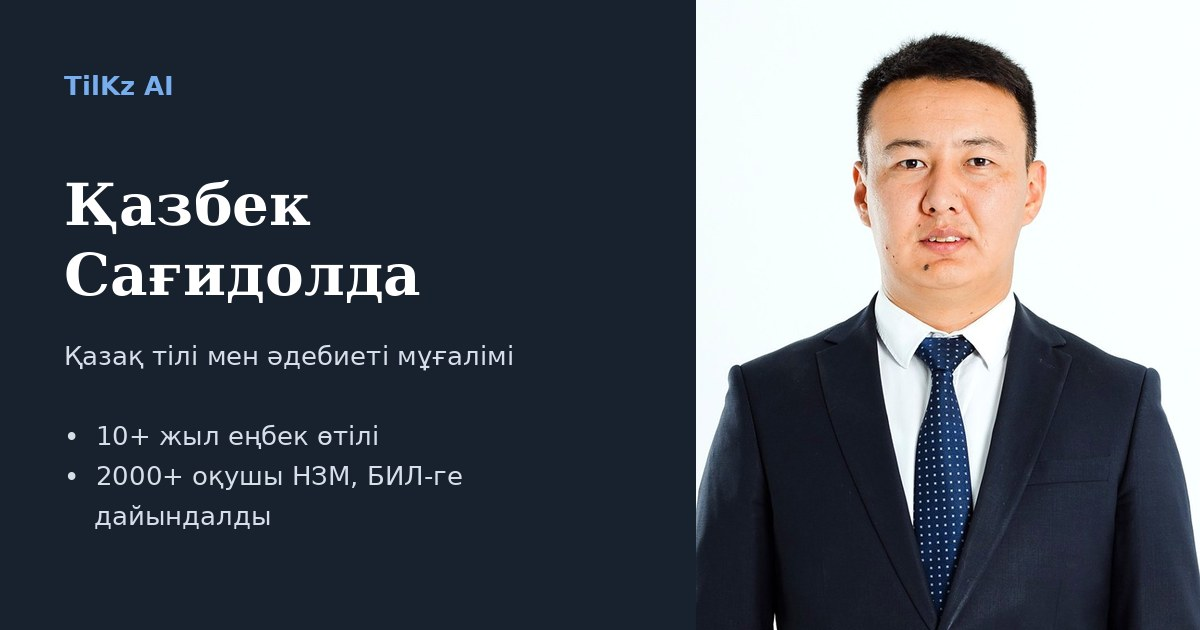
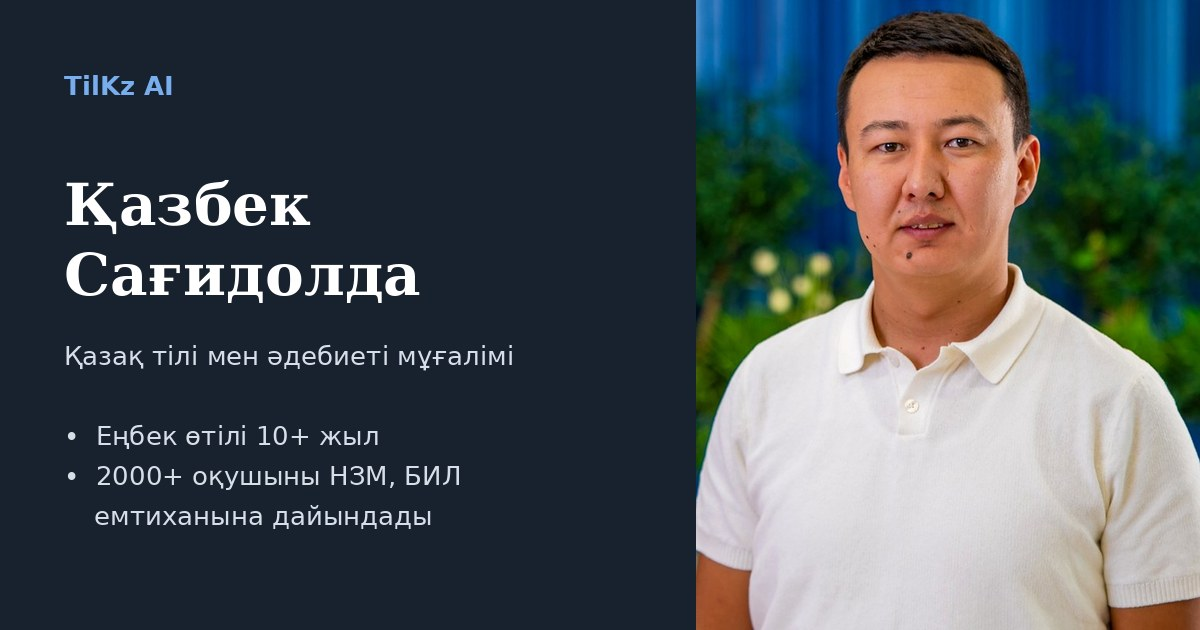
Визитка: жаңа фотосурет, «Еңбек өтілі 10+ жыл», «Еңбек жолы»
- Фотосурет ауыстырылды (иықтан жоғары кесілді, фондағы логотип
  кадрдан шығарылды)
- «Еңбек өтілі 10+ жыл», «2000+ оқушыны НЗМ, БИЛ емтиханына дайындады»
- «Тәжірибесі» → «Еңбек жолы»
- «Бағасы мен кестесі туралы WhatsApp-қа жазыңыз» (сілтемемен)
- Сілтеме алдын ала көрінісі жаңартылды

Claude-Session: https://claude.ai/code/session_01APEKYqKhzMC7zwh18Z5HYk

diff --git a/index.html b/index.html
@@ -4,10 +4,10 @@
 <meta charset="utf-8">
 <meta name="viewport" content="width=device-width,initial-scale=1,viewport-fit=cover">
 <title>Қазбек Сағидолда – қазақ тілі мұғалімі</title>
-<meta name="description" content="Қазақ тілі мен әдебиеті мұғалімі. 10+ жыл еңбек өтілі, 2000+ оқушыны НЗМ, БИЛ емтихандарына дайындады. Жеке және корпоративтік сабақтар.">
+<meta name="description" content="Қазақ тілі мен әдебиеті мұғалімі. Еңбек өтілі 10+ жыл, 2000+ оқушыны НЗМ, БИЛ емтиханына дайындады. Жеке және корпоративтік сабақтар.">
 <meta property="og:type" content="profile">
 <meta property="og:title" content="Қазбек Сағидолда – қазақ тілі мұғалімі">
-<meta property="og:description" content="10+ жыл еңбек өтілі · 2000+ оқушы НЗМ, БИЛ-ге дайындалды · Жеке және корпоративтік сабақтар">
+<meta property="og:description" content="Еңбек өтілі 10+ жыл · 2000+ оқушыны НЗМ, БИЛ емтиханына дайындады · Жеке және корпоративтік сабақтар">
 <meta property="og:image" content="https://sagidoldaq-a11y.github.io/tilkz/img/og.jpg">
 <meta property="og:image:width" content="1200">
 <meta property="og:image:height" content="630">
@@ -69,6 +69,8 @@ button{font:inherit;color:inherit;cursor:pointer}
 .stat{background:var(--panel);border:1px solid var(--line);border-radius:var(--r);padding:16px}
 .stat b{display:block;font-family:var(--f-text);font-size:30px;line-height:1.1;color:var(--accent);font-variant-numeric:tabular-nums}
 .stat span{font-size:14px;color:var(--muted)}
+.stat{display:flex;flex-direction:column;justify-content:flex-start}
+.stat .lbl{order:-1;font-size:14px;color:var(--muted);margin-bottom:2px}
 
 section{margin-top:44px}
 h2{font-family:var(--f-text);font-size:26px;margin:0 0 16px}
@@ -96,7 +98,8 @@ h2{font-family:var(--f-text);font-size:26px;margin:0 0 16px}
 .sub span{font-size:14px;color:var(--muted)}
 .course .go{margin-top:auto;display:inline-flex;justify-content:center;align-items:center;gap:6px;padding:11px 14px;border-radius:10px;font-weight:700;text-decoration:none;border:1px solid var(--accent);color:var(--accent)}
 .course .go.primary{background:var(--accent);color:#fff}
-.note{margin-top:12px;color:var(--muted);font-size:14px}
+.note{margin-top:12px;color:var(--muted);font-size:15px}
+.note a{color:var(--wa);font-weight:700}
 
 /* Байланыс */
 .clist{display:grid;grid-template-columns:repeat(2,minmax(0,1fr));gap:12px}
@@ -142,7 +145,7 @@ footer{margin:48px 0 28px;color:var(--muted);font-size:13px;text-align:center}
     </article>
 
     <div class="stats">
-      <div class="stat"><b>10+</b><span data-t="s1"></span></div>
+      <div class="stat"><span class="lbl" data-t="s1"></span><b data-t="s1b"></b></div>
       <div class="stat"><b>2000+</b><span data-t="s2"></span></div>
       <div class="stat"><b data-t="s3b"></b><span data-t="s3"></span></div>
       <div class="stat"><b>2</b><span data-t="s4"></span></div>
@@ -184,7 +187,7 @@ footer{margin:48px 0 28px;color:var(--muted);font-size:13px;text-align:center}
           <a class="go" id="go3" target="_blank" rel="noopener" data-t="c3go"></a>
         </div>
       </div>
-      <p class="note" data-t="price"></p>
+      <p class="note" id="price"></p>
     </section>
 
     <section id="contact">
@@ -206,24 +209,24 @@ const ICON={
 const T={
  kk:{role:"Қазақ тілі мен әдебиеті мұғалімі", name:"Қазбек Сағидолда",
    lead:"10 жылдан астам уақыт қазақ тілін оқытып келемін. 2000-нан астам оқушыны НЗМ мен БИЛ емтихандарына дайындадым. Оқушыларға, ересектерге және компанияларға сабақ беремін.",
-   s1:"жыл еңбек өтілі", s2:"оқушы НЗМ, БИЛ емтихандарына дайындалды", s3b:"НЗМ · БИЛ", s3:"форматындағы тест жинақтарының авторы", s4:"авторлық курс",
-   bgTitle:"Білімі мен тәжірибесі", eduTitle:"Білімі", edu:"Абай атындағы Қазақ ұлттық педагогикалық университеті, қазақ тілі мен әдебиеті мұғалімі (2015)",
-   expTitle:"Тәжірибесі", exp:"Еңбек өтілі 10 жылдан асады. Жұмыс істеген оқу орындары:",
-   worksTitle:"Жетістіктері мен авторлық жұмыстары", w1:"2000+ оқушыны НЗМ, БИЛ емтихандарына дайындады", w2:"Қазақ тілінен тест жинақтарының авторы", w3:"«Іскерлік қазақ тілі» және «Қазақ тілі – құжат тілі» курстарының авторы",
+   s1:"Еңбек өтілі", s1b:"10+ жыл", s2:"оқушыны НЗМ, БИЛ емтиханына дайындады", s3b:"НЗМ · БИЛ", s3:"форматындағы тест жинақтарының авторы", s4:"авторлық курс",
+   bgTitle:"Білімі мен еңбек жолы", eduTitle:"Білімі", edu:"Абай атындағы Қазақ ұлттық педагогикалық университеті, қазақ тілі мен әдебиеті мұғалімі (2015)",
+   expTitle:"Еңбек жолы", exp:"Еңбек өтілі 10+ жыл.",
+   worksTitle:"Жетістіктері мен авторлық жұмыстары", w1:"2000+ оқушыны НЗМ, БИЛ емтиханына дайындады", w2:"Қазақ тілінен тест жинақтарының авторы", w3:"«Іскерлік қазақ тілі» және «Қазақ тілі – құжат тілі» курстарының авторы",
    coursesTitle:"Курстар", c1tag:"Онлайн жаттықтырғыш", c1:"НЗМ мен БИЛ емтихандарындағы оқу сауаттылығы тапсырмаларына дайындық.",
    c1a:"Емтихан форматындағы мәтіндер мен тест тапсырмалары", c1b:"Әр жауапқа түсініктеме және мәтіннен дәлел", c1c:"Дағдылар бойынша есеп: мықты және әлсіз жақтар", c1go:"Тестті бастау →",
    c2tag:"Онлайн / офлайн", c2h:"Жеке сабақтар", c2kidsH:"Оқушыларға", c2kids:"5–11 сыныптар. Емтихандарға дайындық, үлгерімді жақсарту. Тек онлайн.",
    c2adultsH:"Ересектерге", c2adults:"Кәсіпкерлер, басшылар, мемлекеттік қызметкерлер. Жалпы және іскерлік қазақ тілі. Онлайн және офлайн.", c2go:"Сабаққа жазылу",
    c3tag:"Компанияларға", c3h:"Корпоративтік қазақ тілі", c3:"Компания қызметкерлеріне арналған қазақ тілі. Онлайн және офлайн.",
    c3a:"Іскери хат алмасу", c3b:"Құжат жүргізу", c3c:"Іскерлік қазақ тілі: топтық сабақтар және топ-менеджерлермен жеке жұмыс", c3go:"Ұсыныс алу",
-   price:"Бағасы мен кестесі туралы хабарласыңыз.", contactTitle:"Байланыс", copy:"Көшіру", copied:"Көшірілді",
-   waKids:"Сәлеметсіз бе! Жеке сабаққа жазылғым келеді.", waCorp:"Сәлеметсіз бе! Корпоративтік қазақ тілі курсы бойынша ұсыныс алғым келеді.",
+   price:"Бағасы мен кестесі туралы {wa} жазыңыз.", priceWa:"WhatsApp-қа", contactTitle:"Байланыс", copy:"Көшіру", copied:"Көшірілді",
+   waKids:"Сәлеметсіз бе! Жеке сабаққа жазылғым келеді.", waPrice:"Сәлеметсіз бе! Сабақтардың бағасы мен кестесін білгім келеді.", waCorp:"Сәлеметсіз бе! Корпоративтік қазақ тілі курсы бойынша ұсыныс алғым келеді.",
    lbl:{wa:"WhatsApp",tg:"Telegram",ig:"Instagram",mail:"Электрондық пошта"}, write:"Жазу"},
  ru:{role:"Учитель казахского языка и литературы", name:"Казбек Сагидолда",
    lead:"Более 10 лет преподаю казахский язык. Подготовил более 2000 учеников к экзаменам в НИШ и БИЛ. Занимаюсь со школьниками, взрослыми и компаниями.",
-   s1:"лет педагогического стажа", s2:"учеников подготовлено к экзаменам НИШ и БИЛ", s3b:"НИШ · БИЛ", s3:"автор сборников тестов в формате экзаменов", s4:"авторских курса",
-   bgTitle:"Образование и опыт", eduTitle:"Образование", edu:"Казахский национальный педагогический университет имени Абая, учитель казахского языка и литературы (2015)",
-   expTitle:"Опыт", exp:"Педагогический стаж — более 10 лет. Работал в учебных заведениях:",
+   s1:"Педагогический стаж", s1b:"10+ лет", s2:"учеников подготовил к экзаменам НИШ и БИЛ", s3b:"НИШ · БИЛ", s3:"автор сборников тестов в формате экзаменов", s4:"авторских курса",
+   bgTitle:"Образование и трудовой путь", eduTitle:"Образование", edu:"Казахский национальный педагогический университет имени Абая, учитель казахского языка и литературы (2015)",
+   expTitle:"Трудовой путь", exp:"Педагогический стаж — 10+ лет.",
    worksTitle:"Достижения и авторские работы", w1:"Подготовил 2000+ учеников к экзаменам в НИШ и БИЛ", w2:"Автор сборников тестов по казахскому языку", w3:"Автор курсов «Деловой казахский язык» и «Казахский язык — язык документации»",
    coursesTitle:"Курсы", c1tag:"Онлайн-тренажёр", c1:"Подготовка к заданиям на читательскую грамотность на экзаменах в НИШ и БИЛ.",
    c1a:"Тексты и тестовые задания в формате экзамена", c1b:"Объяснение к каждому ответу и доказательство из текста", c1c:"Отчёт по навыкам: сильные и слабые стороны", c1go:"Начать тест →",
@@ -231,8 +234,8 @@ const T={
    c2adultsH:"Взрослым", c2adults:"Предприниматели, руководители, госслужащие. Общий и деловой казахский язык. Онлайн и офлайн.", c2go:"Записаться на занятие",
    c3tag:"Для компаний", c3h:"Корпоративный казахский язык", c3:"Казахский язык для сотрудников компаний. Онлайн и офлайн.",
    c3a:"Деловая переписка", c3b:"Делопроизводство", c3c:"Деловой казахский: групповые занятия и индивидуальная работа с топ-менеджерами", c3go:"Получить предложение",
-   price:"О стоимости и расписании — свяжитесь со мной.", contactTitle:"Контакты", copy:"Копировать", copied:"Скопировано",
-   waKids:"Здравствуйте! Хочу записаться на индивидуальное занятие.", waCorp:"Здравствуйте! Хочу получить предложение по курсу корпоративного казахского языка.",
+   price:"О стоимости и расписании напишите в {wa}.", priceWa:"WhatsApp", contactTitle:"Контакты", copy:"Копировать", copied:"Скопировано",
+   waKids:"Здравствуйте! Хочу записаться на индивидуальное занятие.", waPrice:"Здравствуйте! Хочу узнать стоимость и расписание занятий.", waCorp:"Здравствуйте! Хочу получить предложение по курсу корпоративного казахского языка.",
    lbl:{wa:"WhatsApp",tg:"Telegram",ig:"Instagram",mail:"Электронная почта"}, write:"Написать"}
 };
 let lang="kk"; try{ lang=localStorage.getItem("tilkz-home-lang")||"kk"; }catch(e){}
@@ -242,6 +245,7 @@ function render(){
   const L=T[lang]; document.documentElement.lang=lang;
   document.querySelectorAll("[data-t]").forEach(el=>{ el.textContent=L[el.dataset.t]; });
   document.querySelectorAll(".seg button").forEach(b=>b.setAttribute("aria-pressed",b.dataset.lang===lang));
+  document.getElementById("price").innerHTML=esc(L.price).replace("{wa}",`<a href="${waLink(L.waPrice)}" target="_blank" rel="noopener">${esc(L.priceWa)}</a>`);
   document.getElementById("go2").href=waLink(L.waKids);
   document.getElementById("go3").href=waLink(L.waCorp);
   document.getElementById("contacts").innerHTML=

diff --git a/web/home.html b/web/home.html
@@ -4,10 +4,10 @@
 <meta charset="utf-8">
 <meta name="viewport" content="width=device-width,initial-scale=1,viewport-fit=cover">
 <title>Қазбек Сағидолда – қазақ тілі мұғалімі</title>
-<meta name="description" content="Қазақ тілі мен әдебиеті мұғалімі. 10+ жыл еңбек өтілі, 2000+ оқушыны НЗМ, БИЛ емтихандарына дайындады. Жеке және корпоративтік сабақтар.">
+<meta name="description" content="Қазақ тілі мен әдебиеті мұғалімі. Еңбек өтілі 10+ жыл, 2000+ оқушыны НЗМ, БИЛ емтиханына дайындады. Жеке және корпоративтік сабақтар.">
 <meta property="og:type" content="profile">
 <meta property="og:title" content="Қазбек Сағидолда – қазақ тілі мұғалімі">
-<meta property="og:description" content="10+ жыл еңбек өтілі · 2000+ оқушы НЗМ, БИЛ-ге дайындалды · Жеке және корпоративтік сабақтар">
+<meta property="og:description" content="Еңбек өтілі 10+ жыл · 2000+ оқушыны НЗМ, БИЛ емтиханына дайындады · Жеке және корпоративтік сабақтар">
 <meta property="og:image" content="https://sagidoldaq-a11y.github.io/tilkz/img/og.jpg">
 <meta property="og:image:width" content="1200">
 <meta property="og:image:height" content="630">
@@ -69,6 +69,8 @@ button{font:inherit;color:inherit;cursor:pointer}
 .stat{background:var(--panel);border:1px solid var(--line);border-radius:var(--r);padding:16px}
 .stat b{display:block;font-family:var(--f-text);font-size:30px;line-height:1.1;color:var(--accent);font-variant-numeric:tabular-nums}
 .stat span{font-size:14px;color:var(--muted)}
+.stat{display:flex;flex-direction:column;justify-content:flex-start}
+.stat .lbl{order:-1;font-size:14px;color:var(--muted);margin-bottom:2px}
 
 section{margin-top:44px}
 h2{font-family:var(--f-text);font-size:26px;margin:0 0 16px}
@@ -96,7 +98,8 @@ h2{font-family:var(--f-text);font-size:26px;margin:0 0 16px}
 .sub span{font-size:14px;color:var(--muted)}
 .course .go{margin-top:auto;display:inline-flex;justify-content:center;align-items:center;gap:6px;padding:11px 14px;border-radius:10px;font-weight:700;text-decoration:none;border:1px solid var(--accent);color:var(--accent)}
 .course .go.primary{background:var(--accent);color:#fff}
-.note{margin-top:12px;color:var(--muted);font-size:14px}
+.note{margin-top:12px;color:var(--muted);font-size:15px}
+.note a{color:var(--wa);font-weight:700}
 
 /* Байланыс */
 .clist{display:grid;grid-template-columns:repeat(2,minmax(0,1fr));gap:12px}
@@ -142,7 +145,7 @@ footer{margin:48px 0 28px;color:var(--muted);font-size:13px;text-align:center}
     </article>
 
     <div class="stats">
-      <div class="stat"><b>10+</b><span data-t="s1"></span></div>
+      <div class="stat"><span class="lbl" data-t="s1"></span><b data-t="s1b"></b></div>
       <div class="stat"><b>2000+</b><span data-t="s2"></span></div>
       <div class="stat"><b data-t="s3b"></b><span data-t="s3"></span></div>
       <div class="stat"><b>2</b><span data-t="s4"></span></div>
@@ -184,7 +187,7 @@ footer{margin:48px 0 28px;color:var(--muted);font-size:13px;text-align:center}
           <a class="go" id="go3" target="_blank" rel="noopener" data-t="c3go"></a>
         </div>
       </div>
-      <p class="note" data-t="price"></p>
+      <p class="note" id="price"></p>
     </section>
 
     <section id="contact">
@@ -206,24 +209,24 @@ const ICON={
 const T={
  kk:{role:"Қазақ тілі мен әдебиеті мұғалімі", name:"Қазбек Сағидолда",
    lead:"10 жылдан астам уақыт қазақ тілін оқытып келемін. 2000-нан астам оқушыны НЗМ мен БИЛ емтихандарына дайындадым. Оқушыларға, ересектерге және компанияларға сабақ беремін.",
-   s1:"жыл еңбек өтілі", s2:"оқушы НЗМ, БИЛ емтихандарына дайындалды", s3b:"НЗМ · БИЛ", s3:"форматындағы тест жинақтарының авторы", s4:"авторлық курс",
-   bgTitle:"Білімі мен тәжірибесі", eduTitle:"Білімі", edu:"Абай атындағы Қазақ ұлттық педагогикалық университеті, қазақ тілі мен әдебиеті мұғалімі (2015)",
-   expTitle:"Тәжірибесі", exp:"Еңбек өтілі 10 жылдан асады. Жұмыс істеген оқу орындары:",
-   worksTitle:"Жетістіктері мен авторлық жұмыстары", w1:"2000+ оқушыны НЗМ, БИЛ емтихандарына дайындады", w2:"Қазақ тілінен тест жинақтарының авторы", w3:"«Іскерлік қазақ тілі» және «Қазақ тілі – құжат тілі» курстарының авторы",
+   s1:"Еңбек өтілі", s1b:"10+ жыл", s2:"оқушыны НЗМ, БИЛ емтиханына дайындады", s3b:"НЗМ · БИЛ", s3:"форматындағы тест жинақтарының авторы", s4:"авторлық курс",
+   bgTitle:"Білімі мен еңбек жолы", eduTitle:"Білімі", edu:"Абай атындағы Қазақ ұлттық педагогикалық университеті, қазақ тілі мен әдебиеті мұғалімі (2015)",
+   expTitle:"Еңбек жолы", exp:"Еңбек өтілі 10+ жыл.",
+   worksTitle:"Жетістіктері мен авторлық жұмыстары", w1:"2000+ оқушыны НЗМ, БИЛ емтиханына дайындады", w2:"Қазақ тілінен тест жинақтарының авторы", w3:"«Іскерлік қазақ тілі» және «Қазақ тілі – құжат тілі» курстарының авторы",
    coursesTitle:"Курстар", c1tag:"Онлайн жаттықтырғыш", c1:"НЗМ мен БИЛ емтихандарындағы оқу сауаттылығы тапсырмаларына дайындық.",
    c1a:"Емтихан форматындағы мәтіндер мен тест тапсырмалары", c1b:"Әр жауапқа түсініктеме және мәтіннен дәлел", c1c:"Дағдылар бойынша есеп: мықты және әлсіз жақтар", c1go:"Тестті бастау →",
    c2tag:"Онлайн / офлайн", c2h:"Жеке сабақтар", c2kidsH:"Оқушыларға", c2kids:"5–11 сыныптар. Емтихандарға дайындық, үлгерімді жақсарту. Тек онлайн.",
    c2adultsH:"Ересектерге", c2adults:"Кәсіпкерлер, басшылар, мемлекеттік қызметкерлер. Жалпы және іскерлік қазақ тілі. Онлайн және офлайн.", c2go:"Сабаққа жазылу",
    c3tag:"Компанияларға", c3h:"Корпоративтік қазақ тілі", c3:"Компания қызметкерлеріне арналған қазақ тілі. Онлайн және офлайн.",
    c3a:"Іскери хат алмасу", c3b:"Құжат жүргізу", c3c:"Іскерлік қазақ тілі: топтық сабақтар және топ-менеджерлермен жеке жұмыс", c3go:"Ұсыныс алу",
-   price:"Бағасы мен кестесі туралы хабарласыңыз.", contactTitle:"Байланыс", copy:"Көшіру", copied:"Көшірілді",
-   waKids:"Сәлеметсіз бе! Жеке сабаққа жазылғым келеді.", waCorp:"Сәлеметсіз бе! Корпоративтік қазақ тілі курсы бойынша ұсыныс алғым келеді.",
+   price:"Бағасы мен кестесі туралы {wa} жазыңыз.", priceWa:"WhatsApp-қа", contactTitle:"Байланыс", copy:"Көшіру", copied:"Көшірілді",
+   waKids:"Сәлеметсіз бе! Жеке сабаққа жазылғым келеді.", waPrice:"Сәлеметсіз бе! Сабақтардың бағасы мен кестесін білгім келеді.", waCorp:"Сәлеметсіз бе! Корпоративтік қазақ тілі курсы бойынша ұсыныс алғым келеді.",
    lbl:{wa:"WhatsApp",tg:"Telegram",ig:"Instagram",mail:"Электрондық пошта"}, write:"Жазу"},
  ru:{role:"Учитель казахского языка и литературы", name:"Казбек Сагидолда",
    lead:"Более 10 лет преподаю казахский язык. Подготовил более 2000 учеников к экзаменам в НИШ и БИЛ. Занимаюсь со школьниками, взрослыми и компаниями.",
-   s1:"лет педагогического стажа", s2:"учеников подготовлено к экзаменам НИШ и БИЛ", s3b:"НИШ · БИЛ", s3:"автор сборников тестов в формате экзаменов", s4:"авторских курса",
-   bgTitle:"Образование и опыт", eduTitle:"Образование", edu:"Казахский национальный педагогический университет имени Абая, учитель казахского языка и литературы (2015)",
-   expTitle:"Опыт", exp:"Педагогический стаж — более 10 лет. Работал в учебных заведениях:",
+   s1:"Педагогический стаж", s1b:"10+ лет", s2:"учеников подготовил к экзаменам НИШ и БИЛ", s3b:"НИШ · БИЛ", s3:"автор сборников тестов в формате экзаменов", s4:"авторских курса",
+   bgTitle:"Образование и трудовой путь", eduTitle:"Образование", edu:"Казахский национальный педагогический университет имени Абая, учитель казахского языка и литературы (2015)",
+   expTitle:"Трудовой путь", exp:"Педагогический стаж — 10+ лет.",
    worksTitle:"Достижения и авторские работы", w1:"Подготовил 2000+ учеников к экзаменам в НИШ и БИЛ", w2:"Автор сборников тестов по казахскому языку", w3:"Автор курсов «Деловой казахский язык» и «Казахский язык — язык документации»",
    coursesTitle:"Курсы", c1tag:"Онлайн-тренажёр", c1:"Подготовка к заданиям на читательскую грамотность на экзаменах в НИШ и БИЛ.",
    c1a:"Тексты и тестовые задания в формате экзамена", c1b:"Объяснение к каждому ответу и доказательство из текста", c1c:"Отчёт по навыкам: сильные и слабые стороны", c1go:"Начать тест →",
@@ -231,8 +234,8 @@ const T={
    c2adultsH:"Взрослым", c2adults:"Предприниматели, руководители, госслужащие. Общий и деловой казахский язык. Онлайн и офлайн.", c2go:"Записаться на занятие",
    c3tag:"Для компаний", c3h:"Корпоративный казахский язык", c3:"Казахский язык для сотрудников компаний. Онлайн и офлайн.",
    c3a:"Деловая переписка", c3b:"Делопроизводство", c3c:"Деловой казахский: групповые занятия и индивидуальная работа с топ-менеджерами", c3go:"Получить предложение",
-   price:"О стоимости и расписании — свяжитесь со мной.", contactTitle:"Контакты", copy:"Копировать", copied:"Скопировано",
-   waKids:"Здравствуйте! Хочу записаться на индивидуальное занятие.", waCorp:"Здравствуйте! Хочу получить предложение по курсу корпоративного казахского языка.",
+   price:"О стоимости и расписании напишите в {wa}.", priceWa:"WhatsApp", contactTitle:"Контакты", copy:"Копировать", copied:"Скопировано",
+   waKids:"Здравствуйте! Хочу записаться на индивидуальное занятие.", waPrice:"Здравствуйте! Хочу узнать стоимость и расписание занятий.", waCorp:"Здравствуйте! Хочу получить предложение по курсу корпоративного казахского языка.",
    lbl:{wa:"WhatsApp",tg:"Telegram",ig:"Instagram",mail:"Электронная почта"}, write:"Написать"}
 };
 let lang="kk"; try{ lang=localStorage.getItem("tilkz-home-lang")||"kk"; }catch(e){}
@@ -242,6 +245,7 @@ function render(){
   const L=T[lang]; document.documentElement.lang=lang;
   document.querySelectorAll("[data-t]").forEach(el=>{ el.textContent=L[el.dataset.t]; });
   document.querySelectorAll(".seg button").forEach(b=>b.setAttribute("aria-pressed",b.dataset.lang===lang));
+  document.getElementById("price").innerHTML=esc(L.price).replace("{wa}",`<a href="${waLink(L.waPrice)}" target="_blank" rel="noopener">${esc(L.priceWa)}</a>`);
   document.getElementById("go2").href=waLink(L.waKids);
   document.getElementById("go3").href=waLink(L.waCorp);
   document.getElementById("contacts").innerHTML=
